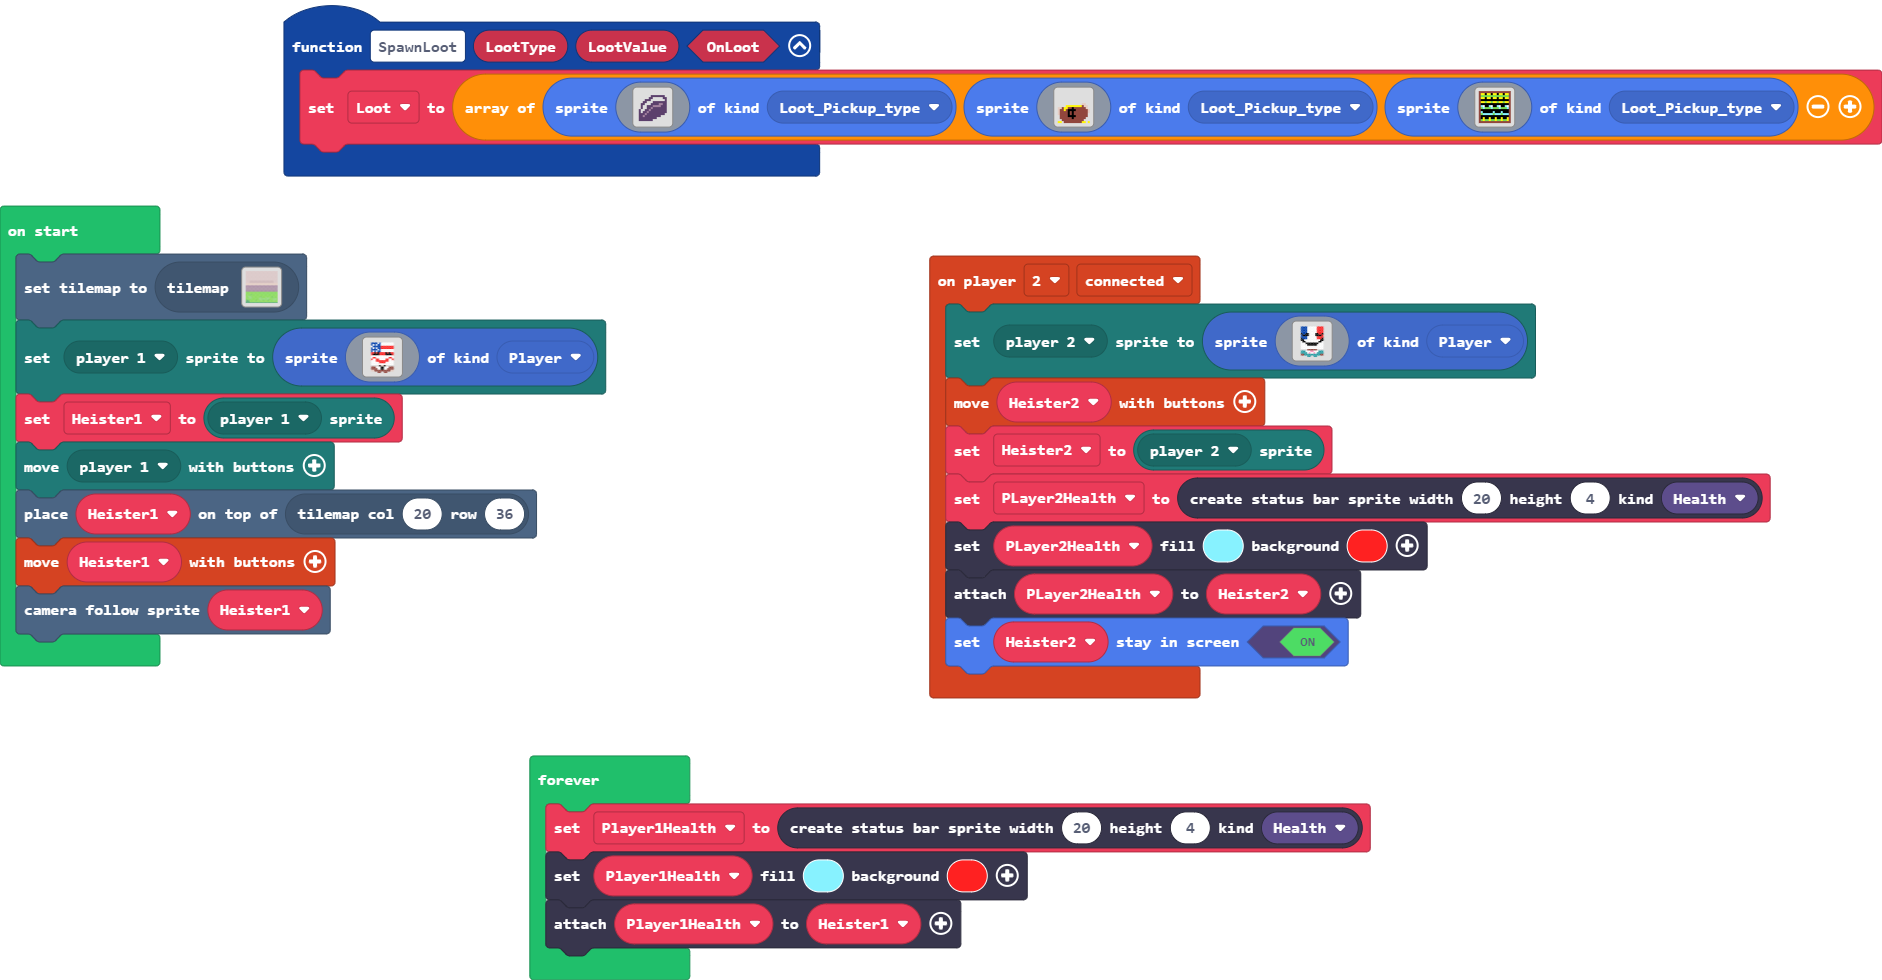
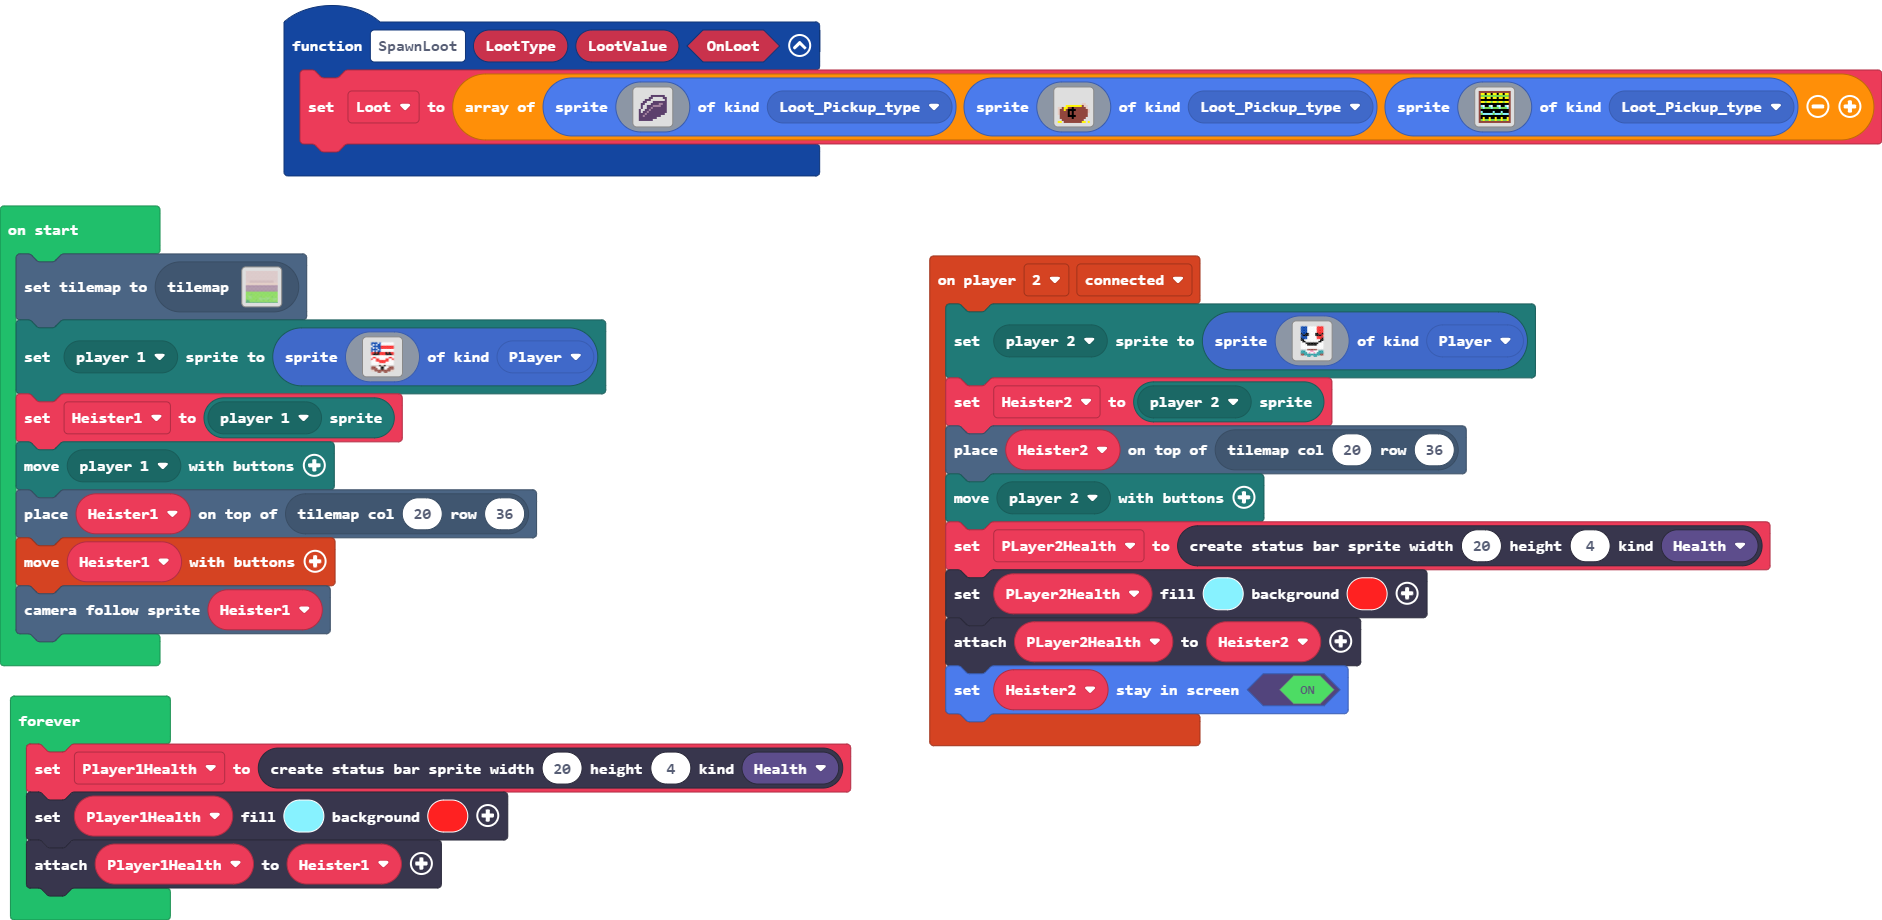
Update main.blocks, main.ts

diff --git a/main.ts b/main.ts
@@ -6,8 +6,9 @@ function SpawnLoot (LootType: string, LootValue: number, OnLoot: boolean) {
 }
 controller.player2.onEvent(ControllerEvent.Connected, function () {
     mp.setPlayerSprite(mp.playerSelector(mp.PlayerNumber.Two), sprites.create(assets.image`Luxembourg`, SpriteKind.Player))
-    controller.moveSprite(Heister2)
     Heister2 = mp.getPlayerSprite(mp.playerSelector(mp.PlayerNumber.Two))
+    tiles.placeOnTile(Heister2, tiles.getTileLocation(20, 36))
+    mp.moveWithButtons(mp.playerSelector(mp.PlayerNumber.Two))
     PLayer2Health = statusbars.create(20, 4, StatusBarKind.Health)
     PLayer2Health.setColor(9, 2)
     PLayer2Health.attachToSprite(Heister2)
